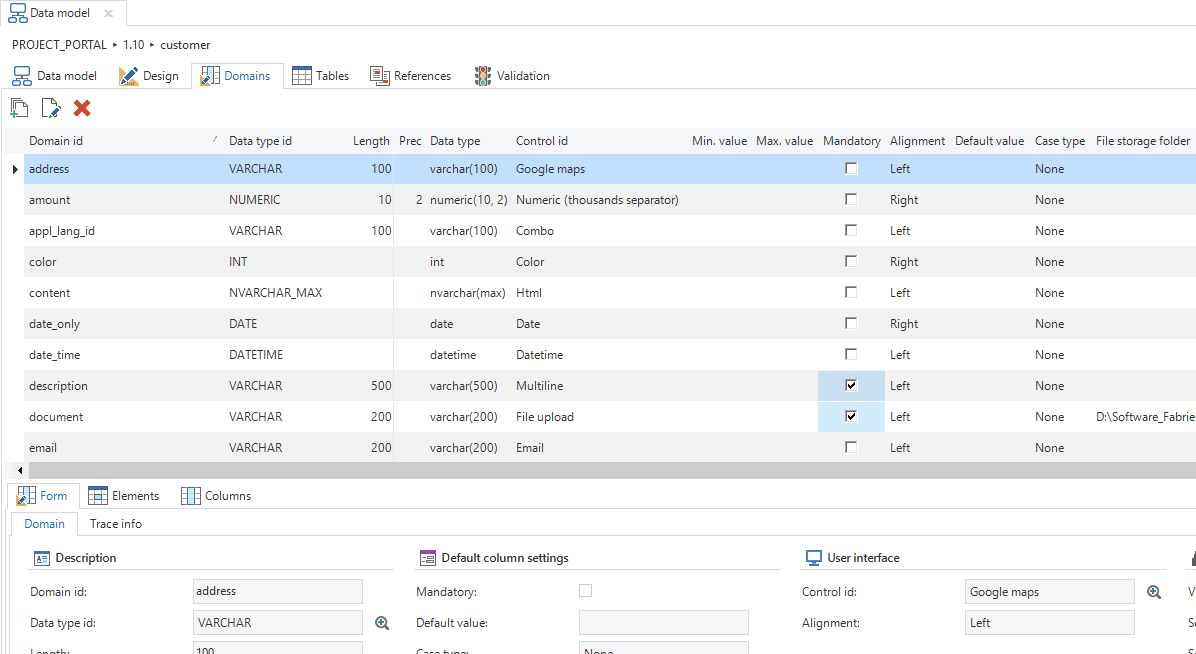
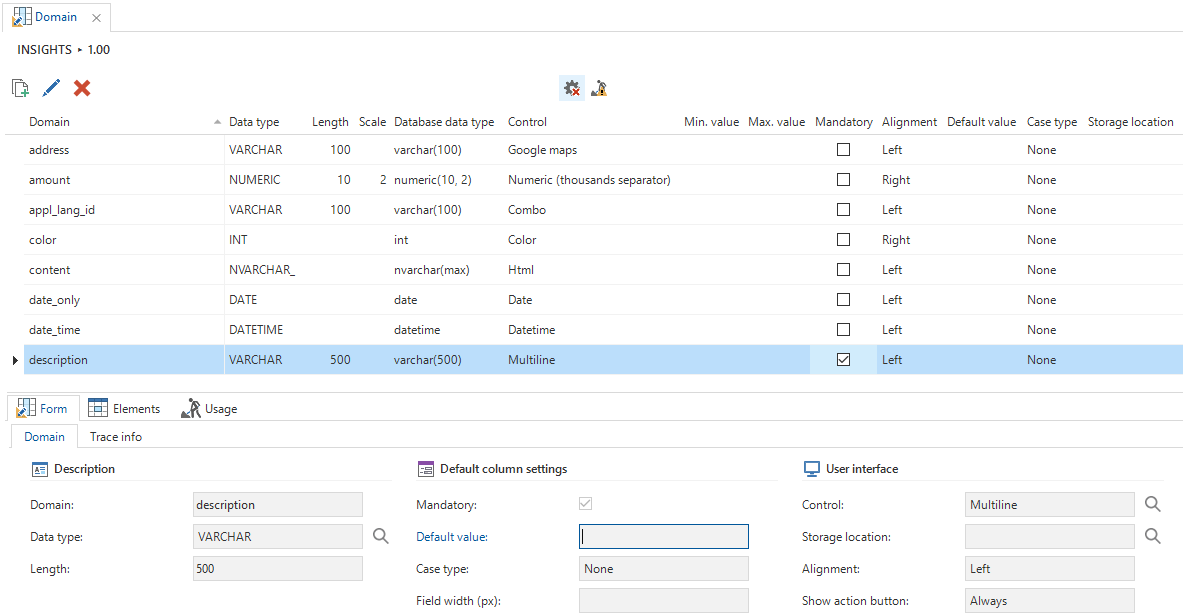
Renamed prec to scale

diff --git a/website/versioned_docs/version-2018.2.0/sf/domains.md b/website/versioned_docs/version-2018.2.0/sf/domains.md
@@ -6,7 +6,7 @@ original_id: domains
 
 Domains are abstract data types, used to indicate the data type of columns and parameters. Changing a domain will update all columns and parameters that use this domain. Depending on the database management system, *user-defined data types* or *reference-fields* are created for domains to be used in SQL business logic. 
 
-A domain always contains a data type and possibly a length and precision. A domain can optionally contain *domain elements* to offer the user a pre-defined selection. A *control* can be specified that is used to visualize the columns and parameters in the user interface, for instance as a text field, an image or a checkbox.
+A domain always contains a data type and possibly a length and scale. A domain can optionally contain *domain elements* to offer the user a pre-defined selection. A *control* can be specified that is used to visualize the columns and parameters in the user interface, for instance as a text field, an image or a checkbox.
 
 Several default settings for columns can also be provided. An example of this is the *Mandatory* field. If this is checked, new columns created with this domain are also mandatory by default. You can still uncheck this option on a per column basis.
 
